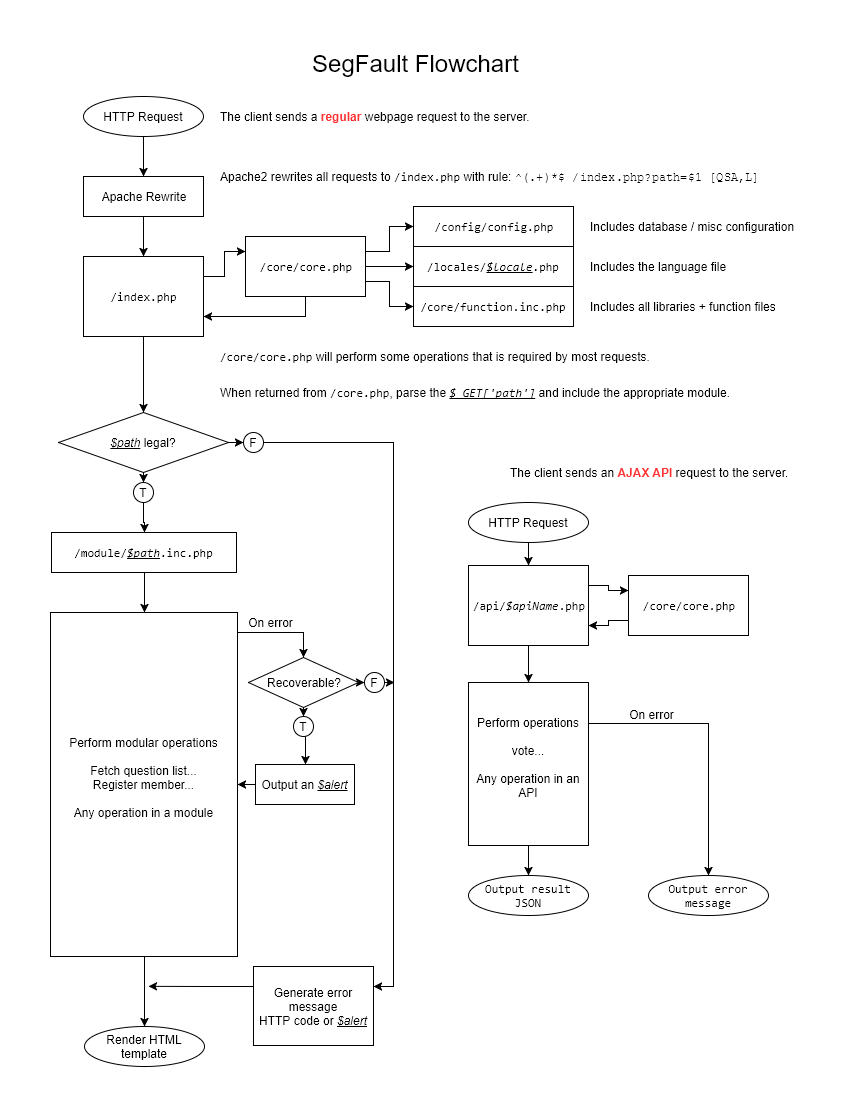
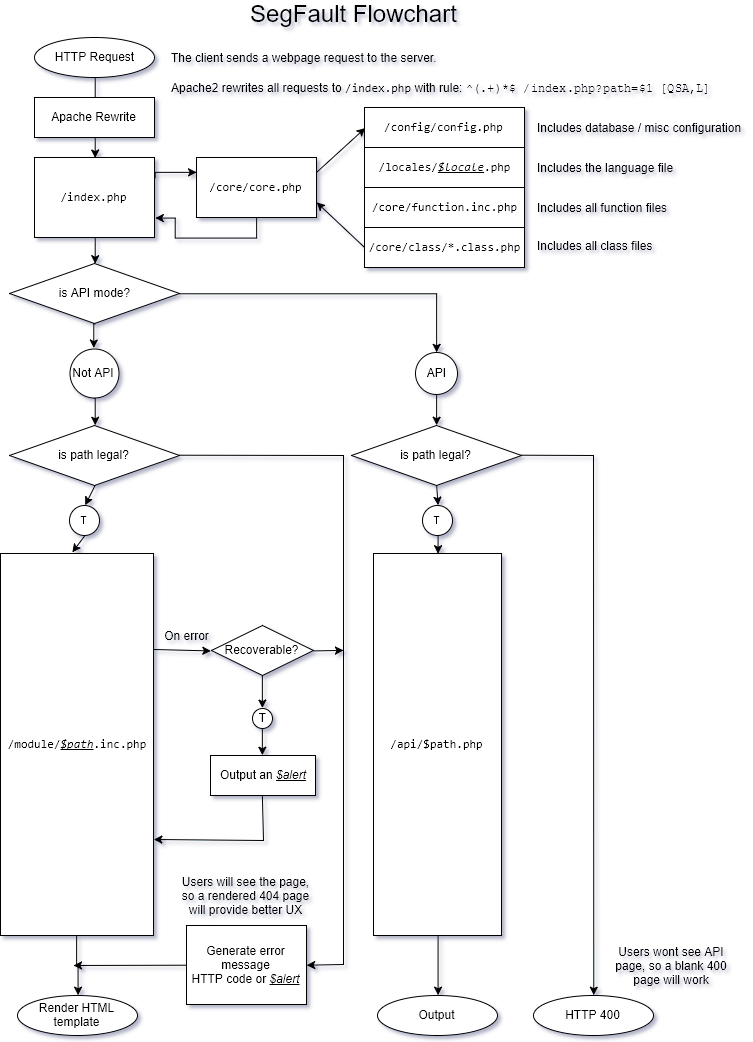
UPDATE: include API mode in router

diff --git a/core/core.php b/core/core.php
@@ -13,25 +13,29 @@ if (!defined("ROOT")) define("ROOT", $_SERVER['DOCUMENT_ROOT']."/");
 if (!isset($GLOBALS['startTime'])) $GLOBALS['startTime'] = microtime(true);
 
 // load DB/Locale/Datetime configuration
-if (file_exists(ROOT."config/config.php")) require_once(ROOT."config/config.php"); else die("FATAL ERROR: Configuration file <span style='font-family: monospace'>config/config.php</span> does not exist.");
+if (file_exists(ROOT."config/config.php")) {
+  require_once(ROOT."config/config.php");
+} else {
+  exit("FATAL ERROR: Configuration file <span style='font-family: monospace'>config/config.php</span> does not exist.");
+}
 // load language file, not necessary for this project, but always a good practice to separate code and translations
+// import functions
+require_once(ROOT."core/function.inc.php");
+foreach (scandir(ROOT.'core/class') as $filename) {
+  $path = ROOT.'core/class/'.$filename;
+  if (is_file($path)) require_once $path;
+}
 require_once(ROOT."locales/".$config['locale'].".php");
 
+
 // using meekrodb in procedural way
-require_once(ROOT."core/lib/meekrodb.2.3.class.php");
+// require_once(ROOT."core/lib/meekrodb.2.3.class.php");
 DB::$host = $config['db']['host'];
 DB::$port = $config['db']['port'];
 DB::$user = $config['db']['username'];
 DB::$password = $config['db']['password'];
 DB::$dbName = $config['db']['dbname'];
 DB::$encoding = $config['db']['charset'];
-
-// import functions
-require_once(ROOT."core/function.inc.php");
-foreach (scandir(ROOT.'core/class') as $filename) {
-    $path = ROOT.'core/class/'.$filename;
-    if (is_file($path)) require_once $path;
-}
 
 // initialize output
 if (!isset($GLOBALS['output'])) $GLOBALS['output'] = [ "alert" => [], "title" => ""];

diff --git a/index.php b/index.php
@@ -7,7 +7,6 @@ require(ROOT."core/core.php");
 
 // path => filename (/module/*.inc.php)
 $route = [
-  "jobs",
   "member",
   "questions",
   "tags",
@@ -21,10 +20,20 @@ foreach($route as $v) $GLOBALS['output']['activeNav'][$v] = "";
 // $2 = action
 // $3... = real $_GET
 
+
 if (array_key_exists("path", $_GET)) $path = explode("/", $_GET['path']);
 else $path = ["questions"]; // default page
 
-if ($path[0] == "api") require_once("api/".$path[1]."/".$path[2].".php");
+if ($path[0] == "api") {
+  unset($path[0]);
+  $file = ROOT."api/".implode("/", $path).".php";
+  if (is_file($file)) {
+    require_once($file);
+  }
+  else {
+    header("HTTP/1.0 400 Bad Request");
+  }
+}
 else {
   if (in_array($path[0], $route)) {
     $action = "";
